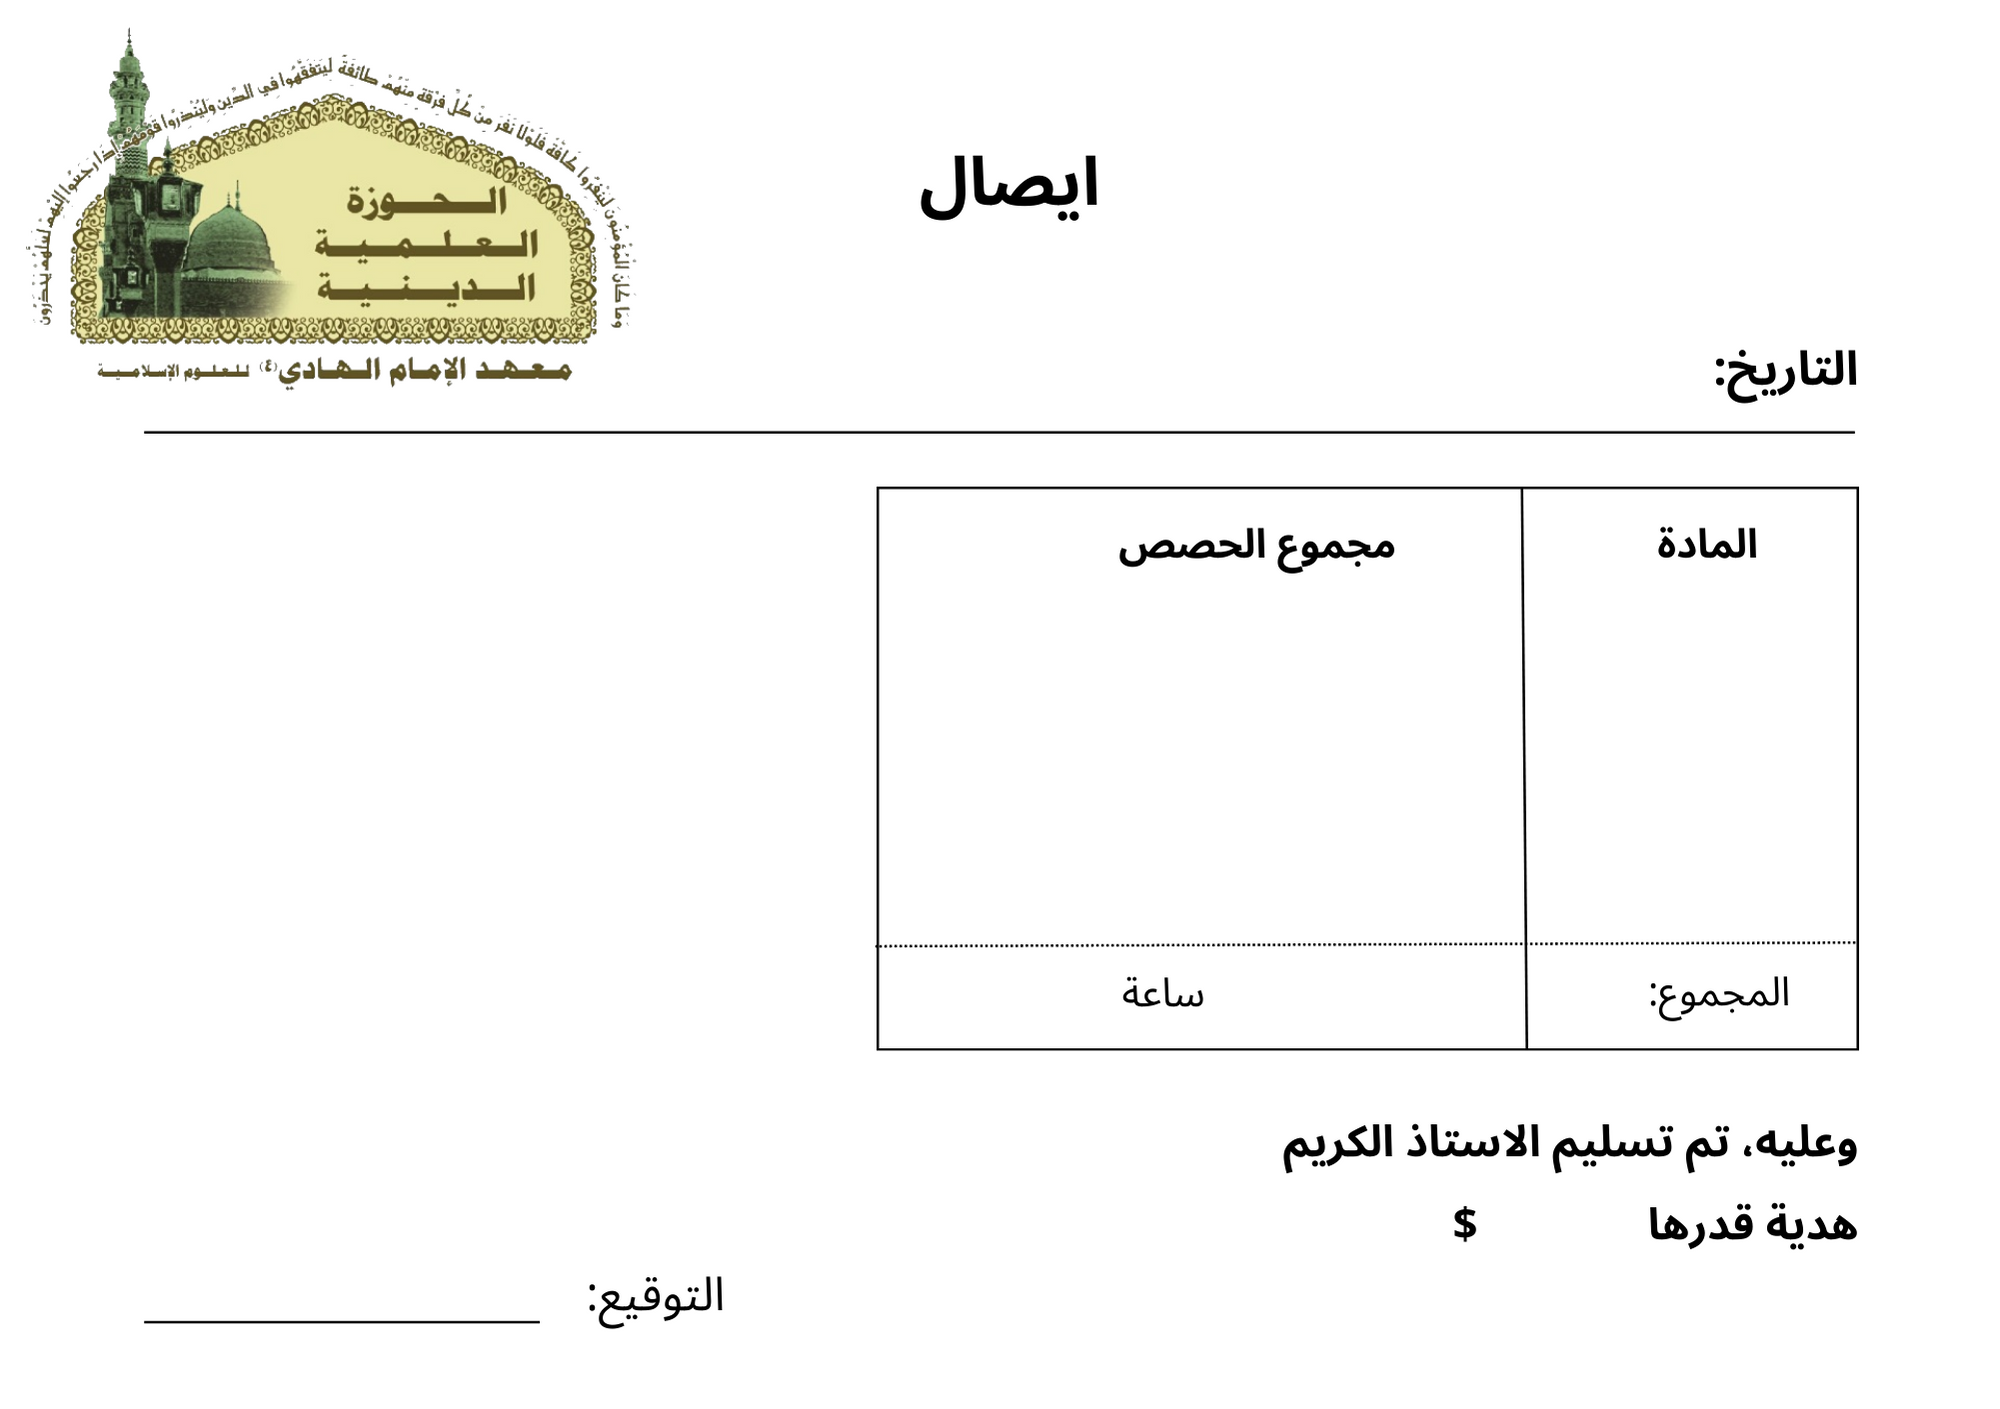
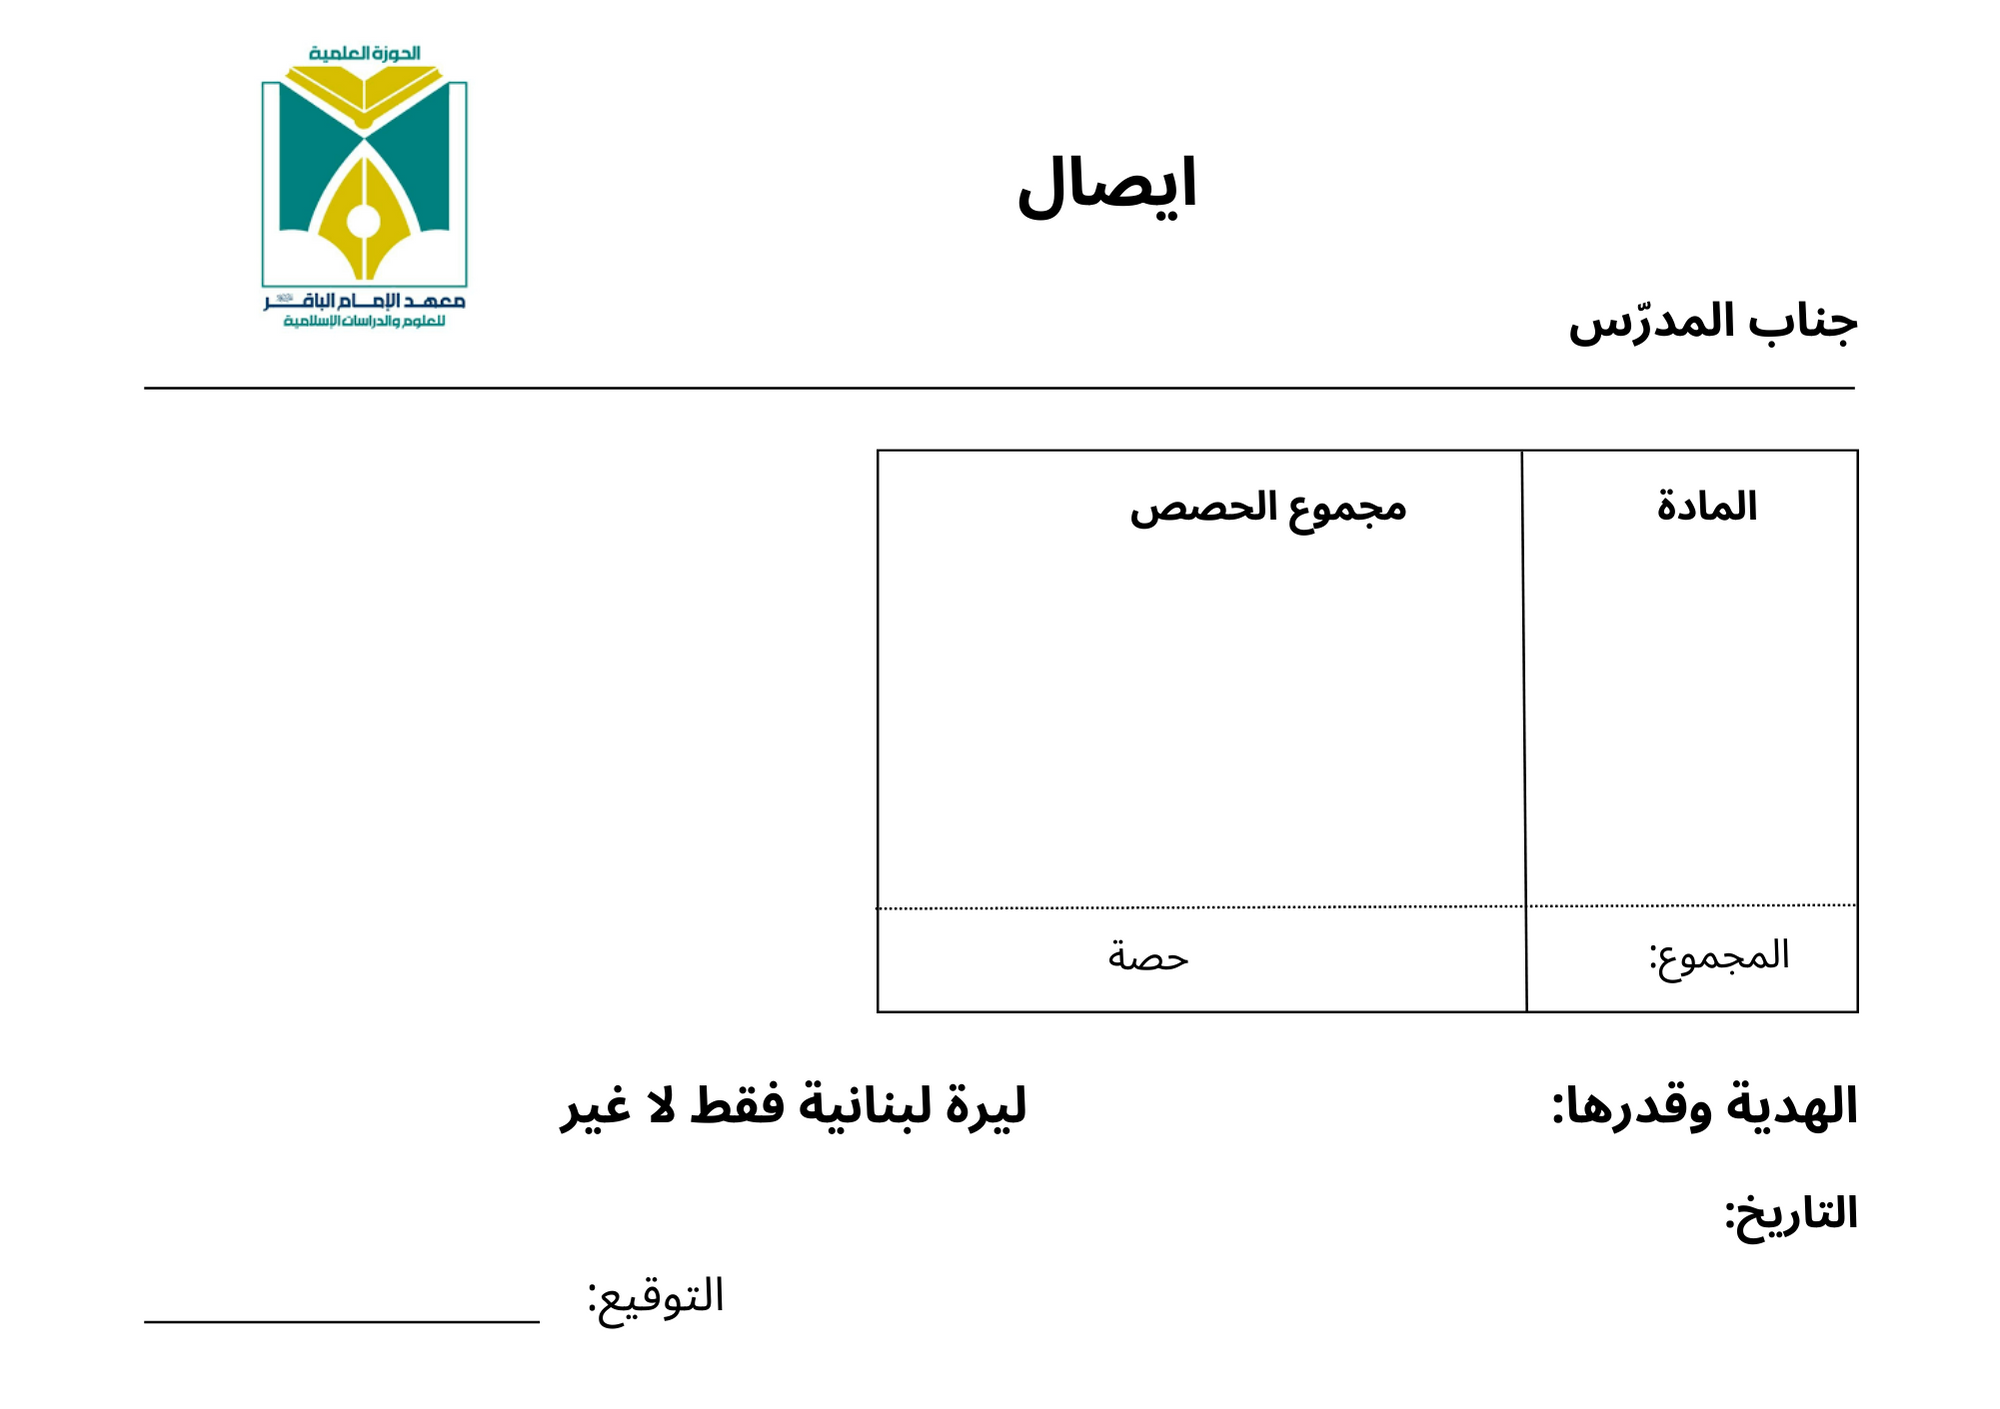
version 1.0
changes made:
 - handled different exceptions of paths, inputs..
 - added all errors messages to Errors class in lookups module
 - enlarged window and changed font of strings within it
 - grouped all invoices in a month in one pdf (one page each teacher)
 - edited GUI after taking notes
 - did final changes in pdf background, numbers...
 - changed static paths to relative paths

diff --git a/process_excel.py b/process_excel.py
@@ -1,11 +1,20 @@
-from pathlib import Path
 import pandas as pd
 from lookups import Enums, Errors
 import datetime
-import time
+import os
 
 def read_excel_file():
-    df = pd.read_excel(Enums.Excel_File_Directory())
+    path = Enums.Excel_File_Directory()
+    if not os.path.exists(path=path):
+        df = pd.DataFrame()
+        df.to_excel(path, index=False)
+        raise Exception(Errors.Empty_Excel_File)
+    
+    df = pd.read_excel(path)
+    
+    if df.empty:
+        raise Exception(Errors.Empty_Excel_File)
+    
     columns = df.columns
     df = df.rename(columns={col:new_col for col, new_col in zip(columns, Enums.English_Columns_Names)})
     df['Date'] = pd.to_datetime(df['Date'], format='%d-%m-%Y', errors='coerce')
@@ -28,12 +37,12 @@ def get_teachers_totals(df:pd.DataFrame, teacher:str):
     teacher_df = df[df.Name == teacher]
     grouped_df = teacher_df[['Material','Duration']].groupby('Material').sum().reset_index()
     grouped_df = grouped_df.rename(columns={'Duration':'Total Duration'})
-    grouped_df['Total Hours'] = grouped_df['Total Duration']//30 / 2
+    grouped_df['Total Hours'] = grouped_df['Total Duration']//45
     return grouped_df
 
 def calculate_total_hours_wage(df):
     total_hours = df['Total Hours'].sum()
-    total_wage = total_hours * Enums.Hourly_Wage
+    total_wage = int(total_hours * Enums.Hourly_Wage)
     return total_hours, total_wage
 
 def get_summary_as_text(df):
@@ -42,34 +51,37 @@ def get_summary_as_text(df):
     for index, row in df.iterrows():
         # extract the values from the first and second columns
         col1_value = row[df.columns[0]]
-        col2_value = str(int(row[df.columns[1]]))
+        col2_value = str(int(row[df.columns[2]]))
 
         # create a text line in the desired format and add it to the list
-        text_line = col1_value + " "*(33 - len(col1_value) - len(col2_value)) + col2_value + " دقيقة"
+        text_line = col1_value + " "*(33 - len(col1_value) - len(col2_value)) + col2_value + " حصة"
         text_lines.append(text_line)
 
     return text_lines
 
 
 def insert_record(values:dict):
-    if len(values.items()) < 9:
-        return "Please make sure to fill all data needed before submitting"
     try:
         date = datetime.date(year=values['Year'],month=values['Month'],day=values['Day'])
     except:
-        return 'Sorry, the date you entered is invalid'
+        return Errors.Invalid_Data
     try:
         start = datetime.time(hour=values['Start-Hour'],minute=values['Start-Min'])
     except Exception as e:
         print(str(e))
-        return 'Sorry, the start time you entered is invalid'
+        return Errors.Invalid_Start_Time
     try:
         end = datetime.time(hour=values['End-Hour'],minute=values['End-Min'])
+        if end <= start: raise Exception()
     except:
-        return 'Sorry, the end time you entered is invalid'
+        return Errors.Invalid_End_Time
+    
     name = values['Name']
     material = values['Material']
     
+    if not name or not material:
+        return Errors.Missing_Data
+
     new_record = {'الاسم':name, 'التاريخ':date, 'بداية الحصة':start, 'نهاية الحصة':end, 'المادة':material}
     
     EXCEL_FILE = Enums.Excel_File_Directory()
@@ -83,7 +95,7 @@ def insert_record(values:dict):
         df = pd.concat([df, new_record], ignore_index=True)
         df.to_excel(EXCEL_FILE, index=False)
     except PermissionError:
-        return 'Please you need to close the excel file before submitting'
+        return Errors.Excel_File_Opened
     except Exception as e:
-        return str(e) 
-    return 'Data saved!'
+        return str(e)
+    return Errors.Data_Saved

diff --git a/temp_invoice.py b/temp_invoice.py
@@ -7,49 +7,58 @@ from reportlab.pdfbase.ttfonts import TTFont
 import arabic_reshaper
 from bidi.algorithm import get_display
 from process_excel import calculate_total_hours_wage, get_teachers_totals, get_summary_as_text
-from lookups import Enums
+from lookups import Enums, Errors
 
-def create_invoice(df, name, path):
-    teacher_df = get_teachers_totals(df=df, teacher=name)
-    total_hours, total_wage = calculate_total_hours_wage(teacher_df)
-
+def create_invoice(df, names):
     # create pdf
-    c = canvas.Canvas(path, pagesize=landscape(A5))
-    background_image = Enums.Image_Directory
-    image = utils.ImageReader(background_image)
-    c.drawImage(image, 0, 0, width=landscape(A5)[0], height=landscape(A5)[1], preserveAspectRatio=True)
+    c = canvas.Canvas(Enums.PDF_Path(), pagesize=landscape(A5))
+    
+    for index, name in enumerate(names):
+        teacher_df = get_teachers_totals(df=df, teacher=name)
+        total_hours, total_wage = calculate_total_hours_wage(teacher_df)
 
-    # set arabic font
-    arabic_font_path = Enums.Font_Path
-    pdfmetrics.registerFont(TTFont("Arabic", arabic_font_path))
+        background_image = Enums.Image_Directory()
+        image = utils.ImageReader(background_image)
+        c.drawImage(image, 0, 0, width=landscape(A5)[0], height=landscape(A5)[1], preserveAspectRatio=True)
 
-    # set indentation
-    indentation = 350
+        # set arabic font
+        arabic_font_path = Enums.Font_Path()
+        pdfmetrics.registerFont(TTFont("Arabic", arabic_font_path))
 
-    # add date
-    today = str(datetime.datetime.now().date())
-    c.setFont('Helvetica', 13)
-    c.drawString(indentation + 85, 304, today)
+        # set indentation
+        indentation = 350
 
-    # teacher sessions summary
-    for index, line in enumerate(get_summary_as_text(teacher_df)):
+        # add date
+        today = str(datetime.datetime.now().date())
+        c.setFont('Helvetica', 13)
+        c.drawString(indentation + 90, 54, today)
+
+        # teacher sessions summary
+        for index, line in enumerate(get_summary_as_text(teacher_df)):
+            c.setFont("Arabic", 12)
+            reshaped_text = arabic_reshaper.reshape(line)
+            bidi_text = get_display(reshaped_text)
+            c.drawString(indentation + 5, 240-20*index, bidi_text)
+        
+        # total amount
         c.setFont("Arabic", 12)
-        reshaped_text = arabic_reshaper.reshape(line)
+        c.drawString(indentation + 20, 130, str(total_hours))
+        
+        # teacher name
+        c.setFont("Arabic", 12)
+        reshaped_text = arabic_reshaper.reshape(name)
         bidi_text = get_display(reshaped_text)
-        c.drawString(indentation + 5, 230-20*index, bidi_text)
-    
-    # total amount
-    c.setFont("Arabic", 12)
-    c.drawString(indentation + 20, 120, str(total_hours))
-    
-    # teacher name
-    c.setFont("Arabic", 12)
-    reshaped_text = arabic_reshaper.reshape(name)
-    bidi_text = get_display(reshaped_text)
-    c.drawString(indentation - len(bidi_text)*6, 75, bidi_text)
+        c.drawString(indentation - len(name)*2, 318, bidi_text)
 
-    # total amount
-    c.setFont("Arabic", 12)
-    c.drawString(indentation + 100, 52, str(total_wage))
-
-    c.save()
+        # total amount
+        c.setFont("Arabic", 14)
+        c.drawString(indentation - 10, 85, f'{total_wage:,}')
+        
+        # new page for another teacher
+        if index != len(names) - 1:
+            c.showPage()
+    try:
+        c.save()
+    except PermissionError:
+        return Errors.PDF_File_Opened
+    return 'All invoices are created successfully'

diff --git a/main.py b/main.py
@@ -1,15 +1,16 @@
 # from pathlib import Path
 import datetime
 import PySimpleGUI as sg
-import pandas as pd
 from process_excel import insert_record
 from generate_invoices import generate
+from lookups import Enums
 
 # Add some color to the window
-sg.theme('DarkTeal9')
+sg.theme('SystemDefault')
+font = (Enums.Font_Path(), 20)
 
 hour_list = [i for i in range(0, 24)]
-minute_list = [i for i in range(0, 60)]
+minute_list = [5*i for i in range(0, 12)]
 day_list = [i for i in range(1, 32)]
 month_list = [i for i in range(1, 13)]
 year_list = [i for i in range(2023, 2100)]
@@ -20,15 +21,15 @@ this_year, this_month, this_day = today.year, today.month, today.day
 time_default_dict = {'Hour':10, 'Min':30, 'Year':this_year, 'Month':this_month, 'Day':this_day}
 time_layout = [
         [
-        sg.Spin(minute_list, initial_value=30, key='Start-Min', s=3),
-        sg.Text(':', justification='right'),
         sg.Spin(hour_list, initial_value=10, key='Start-Hour', s=3),
+        sg.Text(':', justification='right'),
+        sg.Spin(minute_list, initial_value=30, key='Start-Min', s=3),
         sg.Text(text=':بداية الحصة', justification='right')
         ],
         [
-        sg.Spin(minute_list, initial_value=30, key='End-Min', s=3),
-        sg.Text(':', justification='right'),
         sg.Spin(hour_list, initial_value=11, key='End-Hour', s=3),
+        sg.Text(':', justification='right'),
+        sg.Spin(minute_list, initial_value=30, key='End-Min', s=3),
         sg.Text(':انتهاء الحصة', justification='right')
         ]
     ]
@@ -39,19 +40,23 @@ date_layout = [
         sg.Spin(day_list, initial_value=this_day, key='Day'), sg.Text(':اليوم', justification='right')
         ]
     ]
+
 intro_layout = [
         [sg.Text(':رجاء ادخل المعلومات التالية لتسجيل حصة', justification='right')],
-        [sg.InputText(key='Name', justification='right'), sg.Text(':الاسم', justification='right')],
-        [sg.InputText(key='Material', justification='right'), sg.Text(':المادة', justification='right')]
+        [sg.InputText(key='Name', justification='right', size=(25,3)), sg.Text(':الاسم', justification='right')],
+        [sg.InputText(key='Material', justification='right', size=(25,3)), sg.Text(':المادة', justification='right')]
     ]
 layout = [
     [sg.Column(intro_layout, element_justification='right', expand_x=True)],
+    [sg.Text('')],
     [sg.Column(date_layout, element_justification='right', expand_x=True)],
+    [sg.Text('')],
     [sg.Column(time_layout, element_justification='right', expand_x=True)],
-    [sg.Submit(), sg.Button('Clear'), sg.Button('اعداد الايصالات'), sg.Exit()]
+    [sg.Text('')],
+    [sg.Submit(), sg.Button('Clear'), sg.Button('Generate'), sg.Exit()]
 ]
 
-window = sg.Window('Simple data entry form', layout)
+window = sg.Window('Simple data entry form', layout, size=(1000,550), font=font)
 
 def clear_input():
     for key in values:
@@ -74,9 +79,7 @@ while True:
     if event == 'Submit':
         result = insert_record(values)
         sg.popup(result)
-        clear_input()
     if event == 'Generate':
-        clear_input()
         result = generate()
         sg.popup(result)
 window.close()

diff --git a/lookups.py b/lookups.py
@@ -1,8 +1,9 @@
 import datetime
 from pathlib import Path
+import os
 
 class Enums:
-    Hourly_Wage = 3
+    Hourly_Wage = 300000
     English_Columns_Names = ['Name','Date','Start','End','Material']
     
     # directories
@@ -10,8 +11,36 @@ class Enums:
         current_dir = Path(__file__).parent if '__file__' in locals() else Path.cwd()
         directory = current_dir / 'records.xlsx'
         return directory
-    PDF_Path = lambda name: f'C:/Ali/Github/hourly_employees_automated_invoices/pdf_files/{name}_{datetime.datetime.now().date()}_wage_invoice.pdf'
-    Image_Directory = 'C:/Ali/Github/hourly_employees_automated_invoices/resources/background.png'
-    Font_Path = 'C:/Ali/Github/hourly_employees_automated_invoices/resources/font.ttf'
+    
+    def PDF_Path():
+        month = datetime.datetime.now().month
+        year = datetime.datetime.now().year
+        current_directory = Path(__file__).parent if '__file__' in locals() else Path.cwd()
+        folder_dir = str(current_directory) + '/pdf_files'
+        
+        if not os.path.exists(folder_dir):
+            os.makedirs(folder_dir)
+        
+        directory = str(folder_dir) + f'/invoices_{month}_{year}.pdf'
+        return directory
+    
+    def Image_Directory():
+        current_dir = Path(__file__).parent if '__file__' in locals() else Path.cwd()
+        directory = current_dir / 'resources/background.png'
+        return directory
+    
+    def Font_Path():
+        current_dir = Path(__file__).parent if '__file__' in locals() else Path.cwd()
+        directory = current_dir / 'resources/font.ttf'
+        return directory
+    
 class Errors:
     Sorry = lambda e:f"Sorry, the following error happened: {e}"
+    Data_Saved = 'Data saved!'
+    Invalid_Date = 'Sorry, the date you entered is invalid'
+    Invalid_Start_Time = 'Sorry, the start time you entered is invalid'
+    Invalid_End_Time = 'Sorry, the end time you entered is invalid'
+    Missing_Data = "Please make sure to fill all data needed before submitting"
+    Excel_File_Opened = 'Please you need to close the excel file before submitting'
+    PDF_File_Opened = 'Please you need to close the pdf file before submitting'
+    Empty_Excel_File = 'The Excel File is Empty!'

diff --git a/generate_invoices.py b/generate_invoices.py
@@ -1,17 +1,14 @@
 from process_excel import read_excel_file, get_all_teachers_names
 from temp_invoice import create_invoice
 from lookups import Enums
-import time
 
 def generate():
     try:
         df = read_excel_file()
         teachers = get_all_teachers_names(df)
-
-        for index, teacher in enumerate(teachers):
-            create_invoice(df, teacher, Enums.PDF_Path(teacher))
-            print(f'Done {index + 1}')
-        return 'Done All'
+        result = create_invoice(df, teachers)
 
     except Exception as e:
-        return str(e)
+        result = str(e)
+    finally:
+        return result
